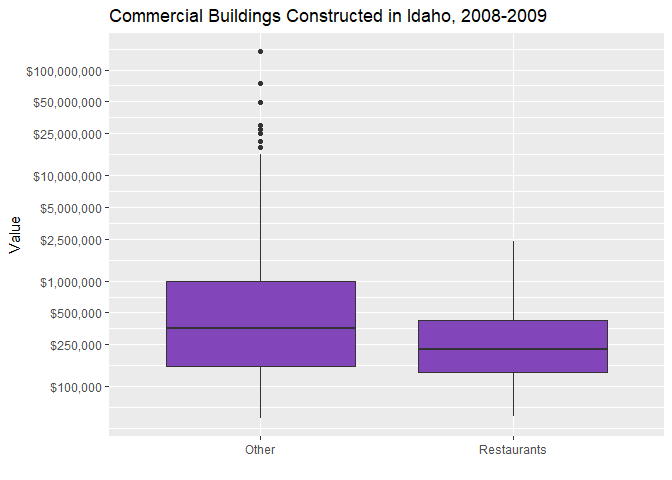
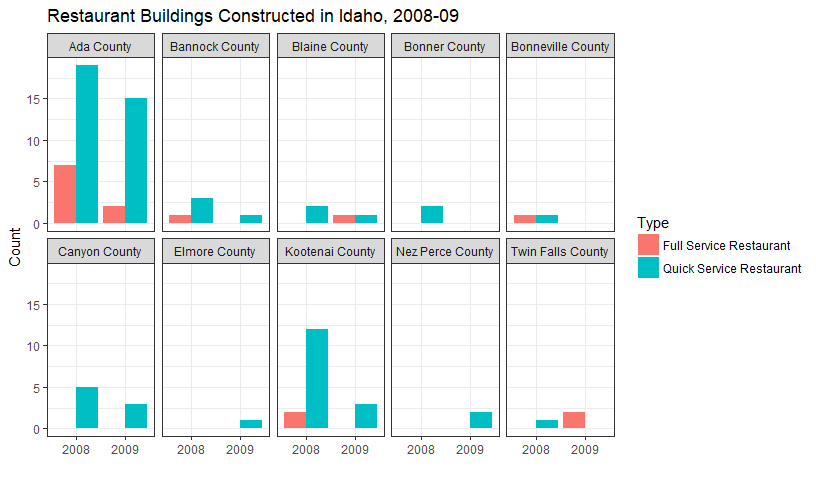
case study 6, Bar plot dodges all bars with the same width

diff --git a/Case_Study_06/Case_Study_06.html b/Case_Study_06/Case_Study_06.html
@@ -191,19 +191,34 @@ edificios &lt;- edificios %&gt;%
   as.tibble()</code></pre>
 <p></br></p>
 <p>How did full-service restaurant construction compare to quick service restaurant construction across county and years?</p>
-<pre class="r"><code>de_comida %&gt;% 
+<pre class="r"><code>#experimental chunk
+
+#(test &lt;- 
+de_comida %&gt;% 
   filter(SubGroup %in% c(&quot;Full Service Restaurant&quot;, &quot;Quick Service Restaurant&quot;)) %&gt;%
   # mutate_at(c(&quot;SubGroup&quot;, &quot;Year&quot;), as.factor) %&gt;% 
-  # complete(SubGroup,Year) %&gt;%
-  ggplot(aes(Year, fill = SubGroup)) +
+  # complete(Year, AreaName, SubGroup) %&gt;% # This would work if I wasn't doing counts.
+  # group_by(SubGroup, Year, AreaName) %&gt;% 
+  # mutate(count = n()) %&gt;% # proposed fix, unfortunately this is still counting the NAs.
+  ggplot(aes(Year, fill = SubGroup)) + #, y = count
   theme_bw() +
-  geom_bar(position = &quot;dodge&quot;) +
+  geom_bar(position = &quot;dodge&quot;) + #, stat = &quot;identity&quot;
   # stat_count(geom = &quot;col&quot;, position = &quot;dodge&quot;) +
   facet_wrap( ~ AreaName, ncol = 5) +
   # scale_x_discrete(drop = FALSE) +
   # theme(axis.text.x = element_text(angle = 45, hjust = 1)) +
   labs(x = &quot;&quot;, y = &quot;Count&quot;, title = &quot;Restaurant Buildings Constructed in Idaho, 2008-09&quot;, fill = &quot;Type&quot;)</code></pre>
[1 lines of base64/hex data omitted]
+<pre class="r"><code>de_comida %&gt;% 
+  filter(SubGroup %in% c(&quot;Full Service Restaurant&quot;, &quot;Quick Service Restaurant&quot;)) %&gt;%
+  count(SubGroup, Year, AreaName) %&gt;% 
+  complete(SubGroup, Year, AreaName, fill = list(n = 0)) %&gt;%
+  ggplot(aes(Year, n, fill = SubGroup)) +
+  theme_bw() +
+  geom_bar(position = &quot;dodge&quot;, stat = &quot;identity&quot;) +
+  facet_wrap( ~ AreaName, ncol = 5) +
+  labs(x = &quot;&quot;, y = &quot;Count&quot;, title = &quot;Restaurant Buildings Constructed in Idaho, 2008-09&quot;, fill = &quot;Type&quot;)</code></pre>
[1 lines of base64/hex data omitted]
+<pre class="r"><code># TO DO: Solve with Bro Hathaway's method, https://byuistats.github.io/M335/restaurants_idaho.html</code></pre>
 <p>It should be noted that Ada county has the highest population. Quick service types were constructed faster than full service types except for in Twin Falls County.</p>
 <p></br></p>
 <p>How did restaurant construction fare compare to the other commercial construction in Idaho?</p>
@@ -225,8 +240,8 @@ edificios &lt;- edificios %&gt;%
   summarise(WeightedTotal = weighted.mean(TotalExpenses, Pop100)) %&gt;%
   arrange(desc(WeightedTotal)) %&gt;% 
   datatable()</code></pre>
-<div id="htmlwidget-bd673aaba0435bfa8f93" style="width:100%;height:auto;" class="datatables html-widget"></div>
-<script type="application/json" data-for="htmlwidget-bd673aaba0435bfa8f93">{"x":{"filter":"none","data":[["1","2","3","4","5","6","7","8","9","10","11","12","13","14","15","16"],["Ada County","Ada County","Kootenai County","Twin Falls County","Bonneville County","Blaine County","Elmore County","Canyon County","Bannock County","Kootenai County","Canyon County","Bonner County","Bannock County","Blaine County","Nez Perce County","Twin Falls County"],["2008","2009","2008","2009","2008","2009","2009","2008","2008","2009","2009","2008","2009","2008","2009","2008"],[10577000,4829000,4014000,1613000,1414000,1360000,1284000,1235000,1205000,966000,580000,579000,500000,475000,168000,136000]],"container":"<table class=\"display\">\n  <thead>\n    <tr>\n      <th> <\/th>\n      <th>AreaName<\/th>\n      <th>Year<\/th>\n      <th>WeightedTotal<\/th>\n    <\/tr>\n  <\/thead>\n<\/table>","options":{"columnDefs":[{"className":"dt-right","targets":3},{"orderable":false,"targets":0}],"order":[],"autoWidth":false,"orderClasses":false}},"evals":[],"jsHooks":[]}</script>
+<div id="htmlwidget-7773e905d04fa709360d" style="width:100%;height:auto;" class="datatables html-widget"></div>
+<script type="application/json" data-for="htmlwidget-7773e905d04fa709360d">{"x":{"filter":"none","data":[["1","2","3","4","5","6","7","8","9","10","11","12","13","14","15","16"],["Ada County","Ada County","Kootenai County","Twin Falls County","Bonneville County","Blaine County","Elmore County","Canyon County","Bannock County","Kootenai County","Canyon County","Bonner County","Bannock County","Blaine County","Nez Perce County","Twin Falls County"],["2008","2009","2008","2009","2008","2009","2009","2008","2008","2009","2009","2008","2009","2008","2009","2008"],[10577000,4829000,4014000,1613000,1414000,1360000,1284000,1235000,1205000,966000,580000,579000,500000,475000,168000,136000]],"container":"<table class=\"display\">\n  <thead>\n    <tr>\n      <th> <\/th>\n      <th>AreaName<\/th>\n      <th>Year<\/th>\n      <th>WeightedTotal<\/th>\n    <\/tr>\n  <\/thead>\n<\/table>","options":{"columnDefs":[{"className":"dt-right","targets":3},{"orderable":false,"targets":0}],"order":[],"autoWidth":false,"orderClasses":false}},"evals":[],"jsHooks":[]}</script>
 <p></br></p>
 <p>In that county how did other commercial construction compare?</p>
 <p>This boxplot shows the distibutions of the prices of buildings.</p>

diff --git a/Case_Study_06/Case_Study_06.md b/Case_Study_06/Case_Study_06.md
@@ -62,13 +62,18 @@ How did full-service restaurant construction compare to quick service restaurant
 
 
 ```r
+#experimental chunk
+
+#(test <- 
 de_comida %>% 
   filter(SubGroup %in% c("Full Service Restaurant", "Quick Service Restaurant")) %>%
   # mutate_at(c("SubGroup", "Year"), as.factor) %>% 
-  # complete(SubGroup,Year) %>%
-  ggplot(aes(Year, fill = SubGroup)) +
+  # complete(Year, AreaName, SubGroup) %>% # This would work if I wasn't doing counts.
+  # group_by(SubGroup, Year, AreaName) %>% 
+  # mutate(count = n()) %>% # proposed fix, unfortunately this is still counting the NAs.
+  ggplot(aes(Year, fill = SubGroup)) + #, y = count
   theme_bw() +
-  geom_bar(position = "dodge") +
+  geom_bar(position = "dodge") + #, stat = "identity"
   # stat_count(geom = "col", position = "dodge") +
   facet_wrap( ~ AreaName, ncol = 5) +
   # scale_x_discrete(drop = FALSE) +
@@ -76,7 +81,26 @@ de_comida %>%
   labs(x = "", y = "Count", title = "Restaurant Buildings Constructed in Idaho, 2008-09", fill = "Type")
 ```
 
-![](Case_Study_06_files/figure-html/unnamed-chunk-2-1.png)<!-- -->
+
+```r
+de_comida %>% 
+  filter(SubGroup %in% c("Full Service Restaurant", "Quick Service Restaurant")) %>%
+  count(SubGroup, Year, AreaName) %>% 
+  complete(SubGroup, Year, AreaName, fill = list(n = 0)) %>%
+  ggplot(aes(Year, n, fill = SubGroup)) +
+  theme_bw() +
+  geom_bar(position = "dodge", stat = "identity") +
+  facet_wrap( ~ AreaName, ncol = 5) +
+  labs(x = "", y = "Count", title = "Restaurant Buildings Constructed in Idaho, 2008-09", fill = "Type")
+```
+
+![](Case_Study_06_files/figure-html/unnamed-chunk-3-1.png)<!-- -->
+
+
+```r
+# TO DO: Solve with Bro Hathaway's method, https://byuistats.github.io/M335/restaurants_idaho.html
+```
+
 
 It should be noted that Ada county has the highest population. Quick service types were constructed faster than full service types except for in Twin Falls County.
 
@@ -95,7 +119,7 @@ edificios %>%
   labs(x = "", y = "Value", title = "Commercial Buildings Constructed in Idaho, 2008-2009")
 ```
 
-![](Case_Study_06_files/figure-html/unnamed-chunk-3-1.png)<!-- -->
+![](Case_Study_06_files/figure-html/unnamed-chunk-5-1.png)<!-- -->
 
 </br>
 
@@ -113,8 +137,8 @@ edificios %>%
   datatable()
 ```
 
-<!--html_preserve--><div id="htmlwidget-bd673aaba0435bfa8f93" style="width:100%;height:auto;" class="datatables html-widget"></div>
-<script type="application/json" data-for="htmlwidget-bd673aaba0435bfa8f93">{"x":{"filter":"none","data":[["1","2","3","4","5","6","7","8","9","10","11","12","13","14","15","16"],["Ada County","Ada County","Kootenai County","Twin Falls County","Bonneville County","Blaine County","Elmore County","Canyon County","Bannock County","Kootenai County","Canyon County","Bonner County","Bannock County","Blaine County","Nez Perce County","Twin Falls County"],["2008","2009","2008","2009","2008","2009","2009","2008","2008","2009","2009","2008","2009","2008","2009","2008"],[10577000,4829000,4014000,1613000,1414000,1360000,1284000,1235000,1205000,966000,580000,579000,500000,475000,168000,136000]],"container":"<table class=\"display\">\n  <thead>\n    <tr>\n      <th> <\/th>\n      <th>AreaName<\/th>\n      <th>Year<\/th>\n      <th>WeightedTotal<\/th>\n    <\/tr>\n  <\/thead>\n<\/table>","options":{"columnDefs":[{"className":"dt-right","targets":3},{"orderable":false,"targets":0}],"order":[],"autoWidth":false,"orderClasses":false}},"evals":[],"jsHooks":[]}</script><!--/html_preserve-->
+<!--html_preserve--><div id="htmlwidget-7773e905d04fa709360d" style="width:100%;height:auto;" class="datatables html-widget"></div>
+<script type="application/json" data-for="htmlwidget-7773e905d04fa709360d">{"x":{"filter":"none","data":[["1","2","3","4","5","6","7","8","9","10","11","12","13","14","15","16"],["Ada County","Ada County","Kootenai County","Twin Falls County","Bonneville County","Blaine County","Elmore County","Canyon County","Bannock County","Kootenai County","Canyon County","Bonner County","Bannock County","Blaine County","Nez Perce County","Twin Falls County"],["2008","2009","2008","2009","2008","2009","2009","2008","2008","2009","2009","2008","2009","2008","2009","2008"],[10577000,4829000,4014000,1613000,1414000,1360000,1284000,1235000,1205000,966000,580000,579000,500000,475000,168000,136000]],"container":"<table class=\"display\">\n  <thead>\n    <tr>\n      <th> <\/th>\n      <th>AreaName<\/th>\n      <th>Year<\/th>\n      <th>WeightedTotal<\/th>\n    <\/tr>\n  <\/thead>\n<\/table>","options":{"columnDefs":[{"className":"dt-right","targets":3},{"orderable":false,"targets":0}],"order":[],"autoWidth":false,"orderClasses":false}},"evals":[],"jsHooks":[]}</script><!--/html_preserve-->
 
 
 </br>
@@ -133,5 +157,5 @@ edificios %>%
   labs(x = "", y = "Value", title = "Commercial Buildings Constructed in Ada County, 2008-2009")
 ```
 
-![](Case_Study_06_files/figure-html/unnamed-chunk-6-1.png)<!-- -->
+![](Case_Study_06_files/figure-html/unnamed-chunk-8-1.png)<!-- -->
 
